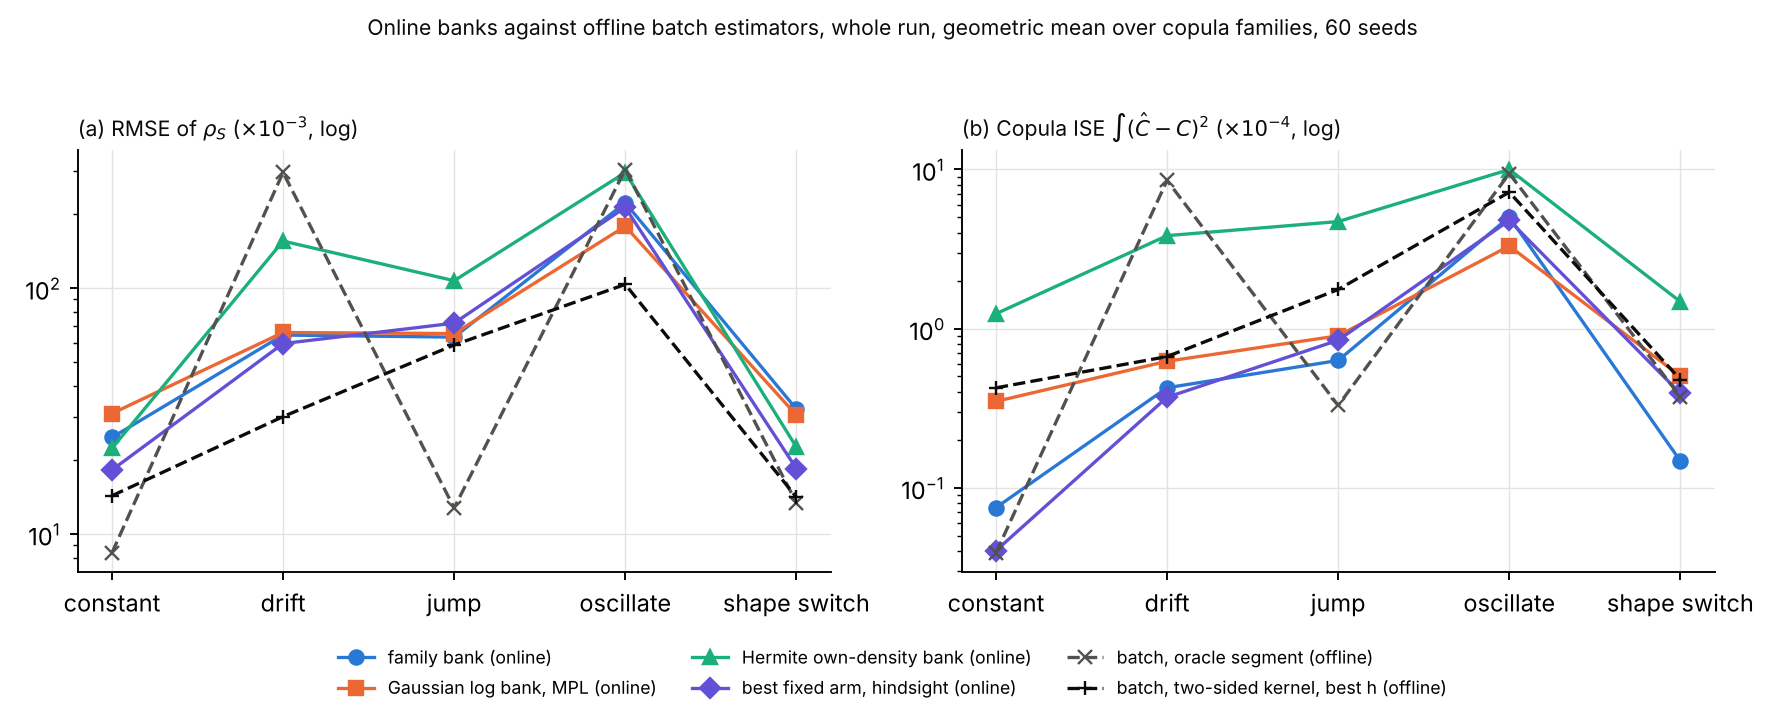
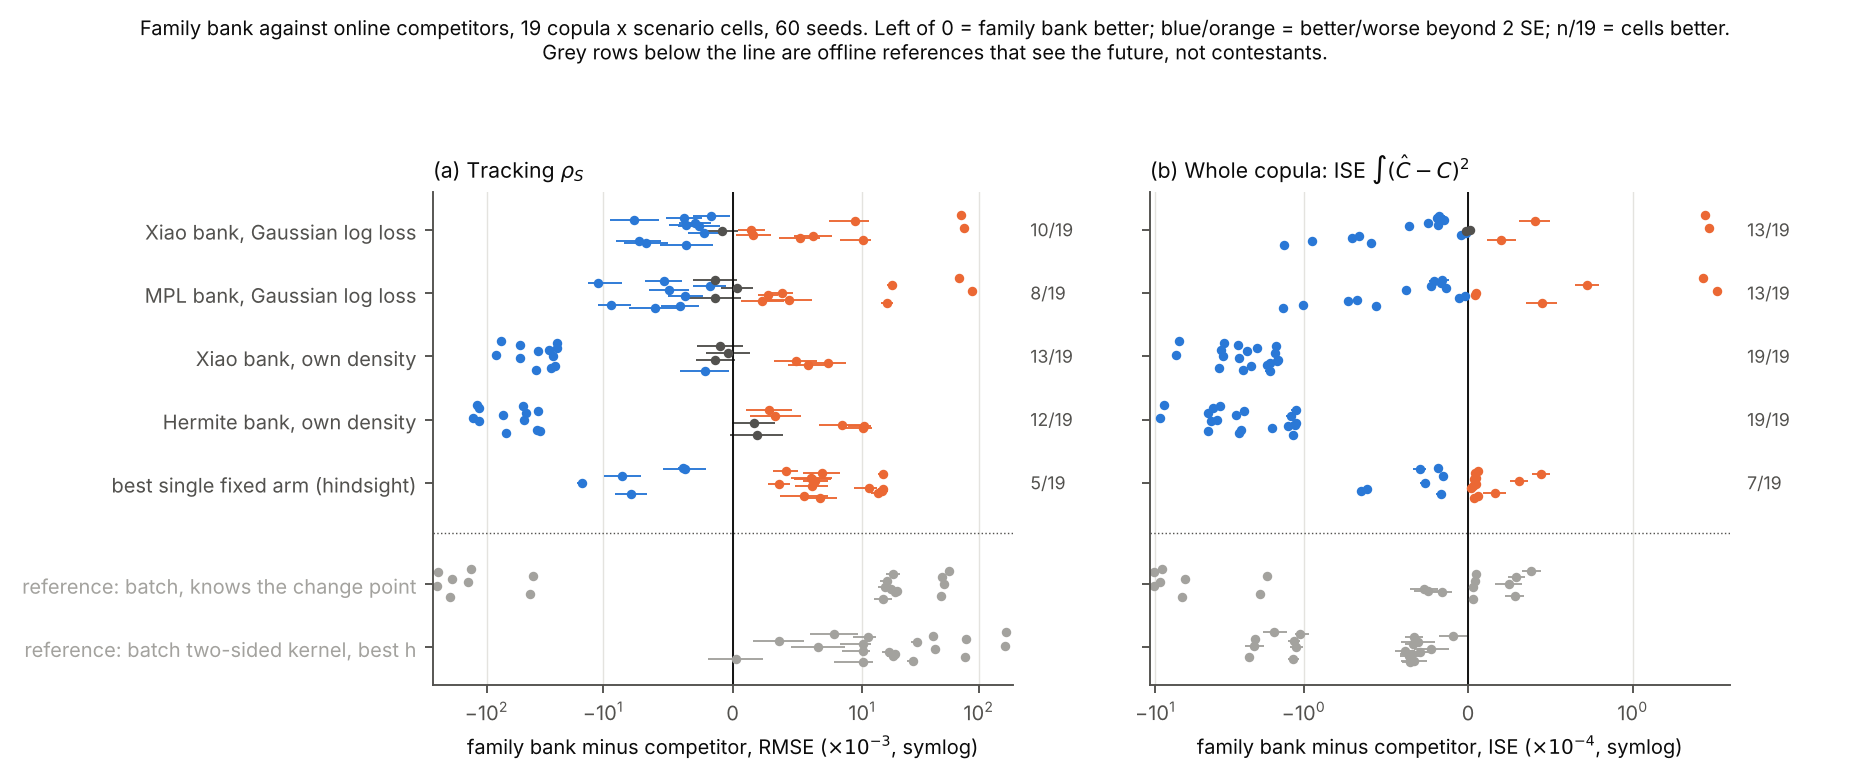
Batch/ISE figure in the summary style; offline estimators as untallied references
Claude-Session: https://claude.ai/code/session_011LH6MHfBJAMQDu7UQqGgRH

diff --git a/experiments/plot_batch_ise.py b/experiments/plot_batch_ise.py
@@ -1,56 +1,71 @@
-"""rho_S RMSE and copula CDF ISE by scenario: family bank, Gaussian log bank (MPL), Hermite own-density bank, the
-family bank's best fixed arm (hindsight), and the offline batch estimators (oracle segment, two-sided kernel with the
-best bandwidth in hindsight). Geometric mean over the copula families of each scenario; 60 seeds.
+"""Family bank against the online estimators, rho_S RMSE and copula CDF ISE, in the style of ch6_family_summary.png:
+one point per copula x scenario cell (paired mean +- 2 SE over 60 seeds), blue = family bank better beyond 2 SE,
+orange = worse, grey = within; n/19 = cells better. The offline batch estimators (oracle segment, two-sided kernel with
+the best bandwidth in hindsight) see the future, so they are drawn below the line as references, untallied.
 Reads results/batch_ise_42*.csv (probe_batch_ise).
 Usage (from experiments/): python3 plot_batch_ise.py -> ../notes/thesis/figures/ch6_batch_ise.png"""
 import matplotlib
 matplotlib.use("Agg")
 import matplotlib.pyplot as plt
-import numpy as np
 import pandas as pd
 
-INK, INK2, GRID = "#0b0b0b", "#52514e", "#e4e3df"
+INK, INK2, GRID, REF = "#0b0b0b", "#52514e", "#e4e3df", "#a3a29e"
+BLUE, ORANGE = "#2a78d6", "#eb6834"
+plt.rcParams.update({"font.size": 8.5, "axes.edgecolor": INK2, "axes.labelcolor": INK, "xtick.color": INK2,
+                     "ytick.color": INK2, "axes.spines.top": False, "axes.spines.right": False})
 fams = ["gaussian", "clayton", "gumbel", "t", "gauss2t", "clayton2gumbel", "gauss2clayton"]
 d = pd.concat(pd.read_csv(f"results/batch_ise_42{'' if c == 'gaussian' else '_' + c}.csv") for c in fams)
 d = d[d.window == "whole"]
-m = d.groupby(["copula", "scenario", "metric", "method"]).value.mean()
 
-series = [("family_bank", "family bank (online)", "#2a78d6", "o", "-"),
-          ("mle_bank_log", "Gaussian log bank, MPL (online)", "#eb6834", "s", "-"),
-          ("hermite_bank_own", "Hermite own-density bank (online)", "#1baf7a", "^", "-"),
-          ("best_arm", "best fixed arm, hindsight (online)", "#6250d6", "D", "-"),
-          ("batch_segment", "batch, oracle segment (offline)", INK2, "x", "--"),
-          ("batch_kernel", "batch, two-sided kernel, best h (offline)", INK, "+", "--")]
-scen = ["constant", "drift", "jump", "oscillate", "shape"]
+rows = [("xiao_bank_log", "Xiao bank, Gaussian log loss", True), ("mle_bank_log", "MPL bank, Gaussian log loss", True),
+        ("xiao_bank_own", "Xiao bank, own density", True), ("hermite_bank_own", "Hermite bank, own density", True),
+        ("best_arm", "best single fixed arm (hindsight)", True),
+        ("batch_segment", "reference: batch, knows the change point", False),
+        ("batch_kernel", "reference: batch two-sided kernel, best h", False)]
 
 
-def value(metric, key, c, s):
-    g = m.loc[(c, s, metric)]
+def comparator(g, key):
+    means = g.mean()
     if key == "best_arm":
-        return g[[i for i in g.index if i.startswith("arm_")]].min()
+        return g[means[[c for c in means.index if c.startswith("arm_")]].idxmin()]
     if key == "batch_kernel":
-        return g[[i for i in g.index if i.startswith("batch_kernel_")]].min()
+        return g[means[[c for c in means.index if c.startswith("batch_kernel_")]].idxmin()]
     return g[key]
 
 
-fig, ax = plt.subplots(1, 2, figsize=(10.5, 4.2))
-for a, metric, scale, title in [(ax[0], "rmse", 1000, r"(a) RMSE of $\rho_S$ ($\times10^{-3}$, log)"),
-                                (ax[1], "ise_x1e4", 1, r"(b) Copula ISE $\int(\hat C-C)^2$ ($\times10^{-4}$, log)")]:
-    for key, lab, col, mk, ls in series:
-        ys = []
-        for s in scen:
-            cells = [(c, sc) for (c, sc) in m.index.droplevel([2, 3]).unique() if sc == s]
-            ys.append(np.exp(np.mean([np.log(value(metric, key, c, sc) * scale) for c, sc in cells])))
-        a.plot(range(len(scen)), ys, marker=mk, color=col, ls=ls, lw=1.4, ms=6, label=lab)
-    a.set_yscale("log")
-    a.set_xticks(range(len(scen)), ["constant", "drift", "jump", "oscillate", "shape switch"])
-    a.grid(color=GRID, lw=0.6)
-    a.set_axisbelow(True)
-    a.set_title(title, loc="left", fontsize=9, color=INK)
-    for sp in ("top", "right"): a.spines[sp].set_visible(False)
-fig.legend(*ax[0].get_legend_handles_labels(), loc="lower center", ncol=3, fontsize=7.5, frameon=False)
-fig.suptitle("Online banks against offline batch estimators, whole run, geometric mean over copula families, 60 seeds",
-             fontsize=9, color=INK)
-fig.tight_layout(rect=(0, 0.1, 1, 0.95))
+fig, axes = plt.subplots(1, 2, figsize=(11, 4.6), sharey=True)
+for ax, metric, scale, title, xlab in [
+        (axes[0], "rmse", 1000, r"(a) Tracking $\rho_S$", r"family bank minus competitor, RMSE ($\times10^{-3}$, symlog)"),
+        (axes[1], "ise_x1e4", 1, r"(b) Whole copula: ISE $\int(\hat C-C)^2$",
+         r"family bank minus competitor, ISE ($\times10^{-4}$, symlog)")]:
+    w = d[d.metric == metric].pivot_table(index=["copula", "scenario", "seed"], columns="method", values="value") * scale
+    cells = w.index.droplevel(-1).unique()
+    for j, (key, lab, contest) in enumerate(rows):
+        y0 = -j - (0.6 if not contest else 0)
+        better = 0
+        for i, cell in enumerate(cells):
+            g = w.loc[cell]
+            x = (g.family_bank - comparator(g, key)).dropna()
+            m, h = x.mean(), 2 * x.std(ddof=1) / len(x) ** .5
+            col = (BLUE if m + h < 0 else ORANGE if m - h > 0 else INK2) if contest else REF
+            better += m + h < 0
+            y = y0 + (i - (len(cells) - 1) / 2) * 0.5 / len(cells)
+            ax.errorbar(m, y, xerr=h, fmt="o", ms=3, color=col, ecolor=col, elinewidth=0.8, capsize=0)
+        if contest:
+            ax.text(1.03, y0, f"{better}/{len(cells)}", transform=ax.get_yaxis_transform(), va="center", fontsize=7.5,
+                    color=INK2)
+    ax.axhline(-4.8, color=INK2, lw=0.6, ls=":")
+    ax.axvline(0, color=INK, lw=0.8)
+    ax.set_xscale("symlog", linthresh=1 if metric != "rmse" else 10)
+    ax.grid(axis="x", color=GRID, lw=0.6)
+    ax.set_title(title, loc="left", fontsize=9, color=INK)
+    ax.set_xlabel(xlab)
+axes[0].set_yticks([-j - (0.6 if not c else 0) for j, (_, _, c) in enumerate(rows)], [l for _, l, _ in rows])
+for t, (_, _, c) in zip(axes[0].get_yticklabels(), rows):
+    if not c: t.set_color(REF)
+fig.suptitle("Family bank against online competitors, 19 copula x scenario cells, 60 seeds. Left of 0 = family bank "
+             "better; blue/orange = better/worse beyond 2 SE; n/19 = cells better.\nGrey rows below the line are offline "
+             "references that see the future, not contestants.", fontsize=8.5, color=INK)
+fig.tight_layout(rect=(0, 0, 0.97, 0.92), w_pad=3)
 fig.savefig("../notes/thesis/figures/ch6_batch_ise.png", dpi=170)
 print("wrote ch6_batch_ise.png")

diff --git a/notes/studies/thesis_bank_ise_batch.md b/notes/studies/thesis_bank_ise_batch.md
@@ -33,9 +33,10 @@ reported ×10⁻⁴. How each estimator's $\hat C_t$ is obtained:
 
 Scored at every tick. Online estimators are scored on the estimate held before the tick.
 
-### Offline batch estimators
+### Offline batch estimators (references, not contestants)
 
-These see the whole sample, future included. The margins are global ranks, i.e. the full-sample
+These see the whole sample, future included, so no online method can be expected to match them. They are
+reported as reference points, and kept out of the online comparison and its tallies. The margins are global ranks, i.e. the full-sample
 pseudo-observations.
 
 | Estimator | What it is |
@@ -57,17 +58,17 @@ The full tables, including windows 0–100 and 100–500 ticks after the change,
 | Gaussian log banks (Xiao / MPL) | 13/4/2, 13/6/0 | It loses on oscillate in every family, where its shortest memory, 99, lags, and against MPL also on Gaussian drift and jump, where the Gaussian working model is right. On Clayton constant: 0.07 against 1.43. |
 | Own-density banks (Xiao / Hermite) | 19/0/0, 19/0/0 | Their nonparametric densities, integrated, are 1.2–16 against 0.07–7. |
 | Its own best fixed arm (hindsight) | 7/12/0 | It wins on jump, on two of the shape switches and on $t$ oscillate. It loses on constant, drift, three oscillate cells and Gauss → $t$, by 0.02–0.44. |
-| **Offline, full sample** | 14/5/0 | It loses on the constant paths, where the full-sample empirical copula is the best possible estimator (0.04 against 0.07–0.09), and on Gauss → t. |
-| **Offline, oracle segment** | 11/8/0 | It loses on constant and jump, where the oracle knows the change point (jump: 0.31–0.39 against 0.60–0.69). |
-| **Offline, two-sided kernel (best h)** | **19/0/0** | The weighted empirical copula is nonparametric and noisier than the bank's parametric mixture, even with the future and a tuned bandwidth. |
+| *Reference:* offline, full sample | 14/5/0 | It loses on the constant paths, where the full-sample empirical copula is the best possible estimator (0.04 against 0.07–0.09), and on Gauss → t. |
+| *Reference:* offline, oracle segment | 11/8/0 | It loses on constant and jump, where the oracle knows the change point (jump: 0.31–0.39 against 0.60–0.69). |
+| *Reference:* offline, two-sided kernel (best h) | **19/0/0** | The weighted empirical copula is nonparametric and noisier than the bank's parametric mixture, even with the future and a tuned bandwidth. |
 
 ### ρ_S RMSE, whole run (19 cells)
 
 | Comparator | W/L/T | Detail |
 | --- | --- | --- |
 | Log banks | 10/8/1 (Xiao), 8/8/3 (MPL) | as in `thesis_bank_family.md` |
-| **Offline, two-sided kernel (best h)** | **0/18/1** | drift 28–32 against 56–72; oscillate 98–107 against 182–273; constant 13–15 against 23–26; jump 57–61 against 59–69. The tie is Clayton jump (58.7 against 59.0). |
-| Offline, oracle segment | 8/11/0 | It wins on drift and oscillate, where a single segment is the whole run. It loses on constant, jump and shape (8–14). |
+| *Reference:* offline, two-sided kernel (best h) | **0/18/1** | drift 28–32 against 56–72; oscillate 98–107 against 182–273; constant 13–15 against 23–26; jump 57–61 against 59–69. The tie is Clayton jump (58.7 against 59.0). |
+| *Reference:* offline, oracle segment | 8/11/0 | It wins on drift and oscillate, where a single segment is the whole run. It loses on constant, jump and shape (8–14). |
 
 **The ρ_S gap to the offline kernel is the price of being causal.** On drift the online banks are about
 twice the error of a two-sided smoother that uses the future. On jump they come within 0–8 ×10⁻³ of it,
@@ -89,13 +90,13 @@ because a symmetric kernel also smears an abrupt change.
 
 ## What it says
 
-1. **For the copula, the family bank is the best estimator tested, offline ones included,** wherever
-   its families contain the truth.
+1. **For the copula, the family bank is the best online estimator tested,** wherever its families contain
+   the truth. Among the references:
    - It beats the offline kernel empirical copula in all 19 cells, even though the kernel has the
      future and a bandwidth tuned in hindsight.
    - Only the full-sample or oracle-segment empirical copula beats it, and only on stationary stretches
      or with knowledge of the change point.
-2. **For ρ_S, offline smoothing is clearly better.** The online-vs-offline gap is about 2× on drift and
+2. **For ρ_S, the offline reference shows how much causality costs.** The online-vs-offline gap is about 2× on drift and
    oscillate, 1.7× on constant, and small on jump. That gap is the cost of causality, and no online
    method closes it.
 3. **The ISE agrees with the excess log loss (KL).**
